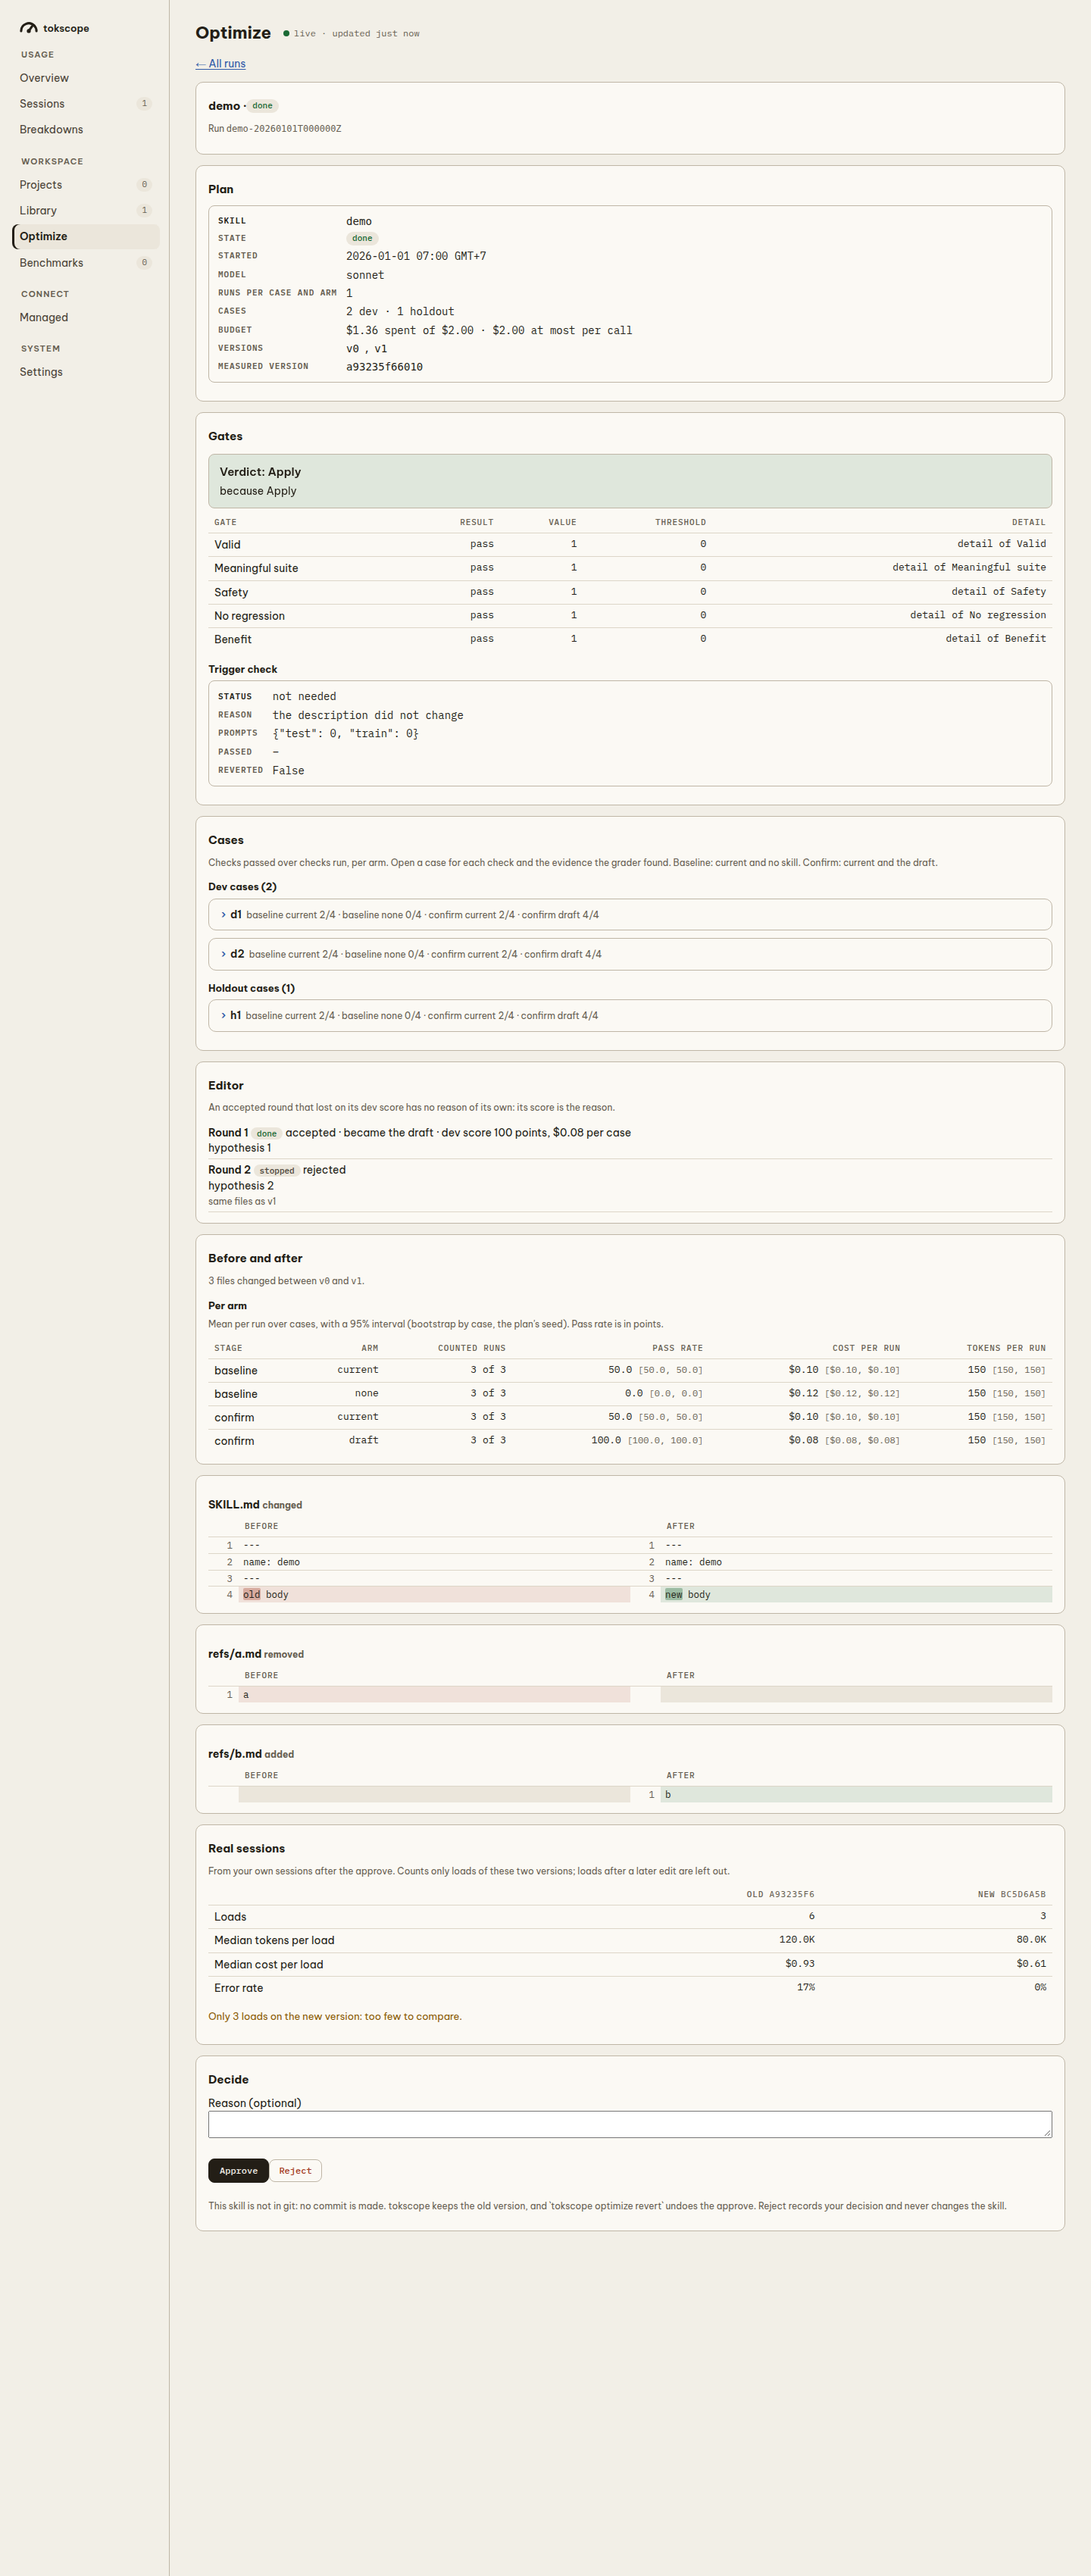
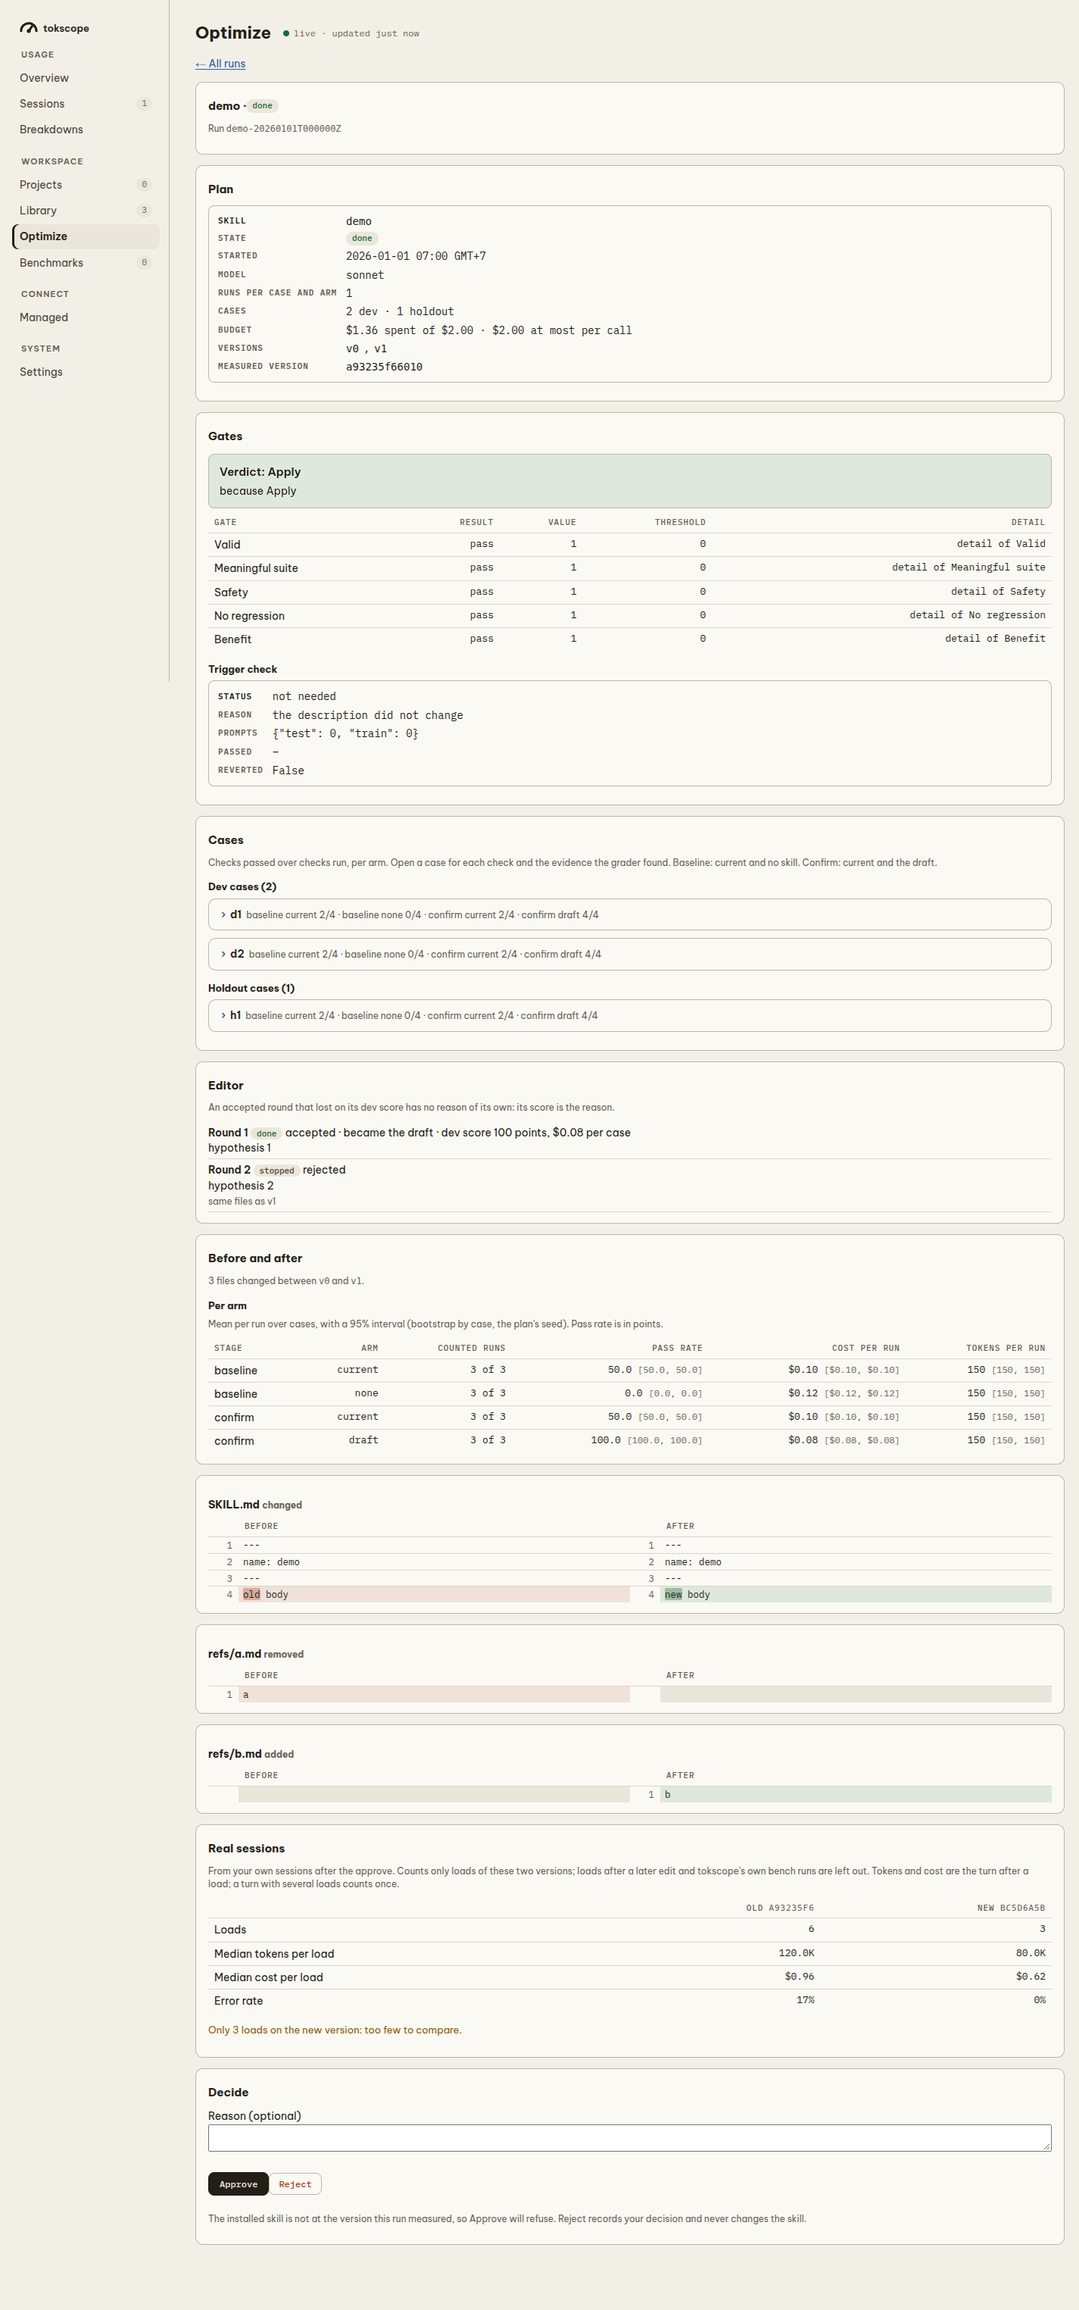
Post-ship: leave bench sessions out, count each turn once per side
Bench sessions (tokscope's own paid runs, project LIKE changes.BENCH_PROJECT,
the same rule versions() and library use) are left out of loads, error rate
and medians again, so synthetic loads cannot reach the 5-load threshold.

A turn with several loads of the skill was charged its whole sum once per
load. Rule picked: take each turn once per side (the simpler one); a turn's
tokens and cost stay the sum of its requests rows, so tokens stay integers.
Loads and error rate still count every load.

The card note now says bench runs are left out and a turn with several
loads counts once; UAT screenshots and table retaken with fixture data.

diff --git a/tests/test_optimize_page.py b/tests/test_optimize_page.py
@@ -889,7 +889,23 @@ class PostShipTest(Fixture):
         finally:
             conn.close()
 
-    def test_each_load_gets_the_full_turn_sum_even_with_several_loads_in_the_turn(self):
+    def test_one_turn_with_two_loads_counts_once_in_the_medians(self):
+        self.approve()
+        self.loads(self.new, 2, 15, tokens=1000, cost=1.0)  # turns 1 and 2: 1000 and 1001
+        self.loads(self.new, 1, 16, tokens=100, cost=0.1)  # turn 3: 100
+        conn = ingest.connect(self.db)
+        conn.execute("INSERT INTO skill_calls(session_id, ts, skill, source, prompt_idx, tool_use_id, failed) "
+                     "VALUES ('s1', '2026-03-16T01:00:00+00:00', 'demo', 'tool', 3, 'tdup', 0)")
+        conn.execute("INSERT INTO skill_load_versions VALUES ('s1', 'tdup', 'demo', ?, '2026-03-16T01:00:00+00:00')",
+                     (self.new,))
+        conn.commit()
+        conn.close()
+        got = self.numbers()["new"]
+        self.assertEqual(got["loads"], 4)
+        self.assertEqual(got["tokens_median"], 1000)  # turns 1000, 1001, 100; turn 3 not counted twice (550)
+        self.assertAlmostEqual(got["cost_median"], 1.0)
+
+    def test_a_turn_keeps_its_full_sum_when_another_skill_loads_in_it(self):
         self.approve()
         self.loads(self.new, 1, 15, tokens=1000, cost=1.0)
         conn = ingest.connect(self.db)
@@ -954,17 +970,25 @@ class PostShipTest(Fixture):
         got = self.numbers()
         self.assertEqual((got["old"]["loads"], got["new"]["loads"]), (5, 5))
 
-    def test_bench_sessions_count_and_loads_without_requests_stay_out_of_the_medians(self):
+    def test_loads_without_requests_stay_out_of_the_medians(self):
         self.approve()
-        self.loads(self.old, 2, 5, session="sb", failed=2)
         self.loads(self.old, 5, 6)
         conn = ingest.connect(self.db)
         conn.execute("DELETE FROM requests WHERE session_id = 's1' AND prompt_idx = 3")
         conn.commit()
         conn.close()
         got = self.numbers()["old"]
-        self.assertEqual((got["loads"], got["errors"], got["few"]), (7, 2, False))
-        self.assertIsNotNone(got["tokens_median"])
+        self.assertEqual((got["loads"], got["errors"], got["few"]), (5, 0, False))
+        self.assertEqual(got["tokens_median"], 102)  # 100, 101, 103, 104
+
+    def test_bench_session_loads_are_left_out_of_loads_errors_and_medians(self):
+        self.approve()
+        self.loads(self.old, 3, 5, session="sb", failed=2, tokens=9000, cost=9.0)
+        self.loads(self.old, 3, 6, tokens=100, cost=0.1)
+        got = self.numbers()["old"]
+        self.assertEqual((got["loads"], got["errors"], got["error_rate"], got["few"]), (3, 0, 0, True))
+        self.assertEqual(got["tokens_median"], 101)
+        self.assertAlmostEqual(got["cost_median"], 0.11)
 
     def test_an_unapproved_run_has_no_section_and_keeps_decide(self):
         self.approve()

diff --git a/tokscope/features/postship.py b/tokscope/features/postship.py
@@ -2,6 +2,7 @@
 import statistics
 
 from ..core import skills
+from .changes import BENCH_PROJECT
 
 MIN_LOADS = 5  # a side with fewer loads is too few to compare
 
@@ -31,9 +32,10 @@ def _turns(conn, keys):
 
 
 def _side(loads, failed, turns):
-    """loads, failed: lists of (session_id, prompt_idx) of the ok and the failed loads of one version."""
+    """loads, failed: lists of (session_id, prompt_idx) of the ok and the failed loads of one version. Each turn counts
+    once in the medians, however many loads it holds, so a turn with several loads is not counted several times."""
     every = loads + failed
-    measured = [turns[k] for k in every if k in turns]
+    measured = [turns[k] for k in set(every) if k in turns]
     n = len(every)
     return {"loads": n, "tokens_median": statistics.median(t for t, _ in measured) if measured else None,
             "cost_median": statistics.median(c for _, c in measured) if measured else None,
@@ -43,12 +45,14 @@ def _side(loads, failed, turns):
 def post_ship(conn, skill, old, new, at):
     """{"old": side, "new": side}: loads, median tokens and cost per load, errors and error rate from real sessions. A
     load counts by its version: the old version before `at`, the new one from `at` on; any other version (a later hand
-    edit) is left out. Tokens and cost are the full sum of the turn's requests after each load, ok or failed. A side is `few` under MIN_LOADS loads."""
+    edit) and any load in a bench session (tokscope's own paid runs) is left out. Tokens and cost are the sum of the
+    requests of the turn after a load, ok or failed, each turn taken once per side. A side is `few` under MIN_LOADS loads."""
     boundary = skills._dt(at)
+    bench = {r[0] for r in conn.execute("SELECT session_id FROM sessions WHERE project LIKE ?", (BENCH_PROJECT,))}
     pick = {"old": ([], []), "new": ([], [])}
     for failed in (False, True):
         for sid, i, sk, ts, version, _ in skills.load_versions(conn, failed=failed):
-            if sk != skill or not ts or version is None:
+            if sk != skill or not ts or version is None or sid in bench:
                 continue
             if version == old and skills._dt(ts) < boundary:
                 pick["old"][failed].append((sid, i))

diff --git a/tokscope/web/dashboard/pages/optimize.py b/tokscope/web/dashboard/pages/optimize.py
@@ -418,7 +418,8 @@ def _post_ship_section(conn, d):
     notes = "".join(f'<p class="warn" role="note">Only {side["loads"]} load{"s" * (side["loads"] != 1)} on the {name} version: '
                     "too few to compare.</p>" for name, side in (("old", o), ("new", n)) if side["few"])
     return ('<section class="card" id="postship"><h2 class="sec">Real sessions</h2><p class="note">From your own sessions after the approve. '
-            "Counts only loads of these two versions; loads after a later edit are left out.</p>"
+            "Counts only loads of these two versions; loads after a later edit and tokscope's own bench runs are left out. "
+            "Tokens and cost are the turn after a load; a turn with several loads counts once.</p>"
             f'<div class="scroll"><table><thead><tr><th></th><th>Old <code>{_e(str(old)[:8])}</code></th>'
             f'<th>New <code>{_e(str(new)[:8])}</code></th></tr></thead><tbody>{rows}</tbody></table></div>{notes}</section>')
 

diff --git a/STATUS.md b/STATUS.md
@@ -18,7 +18,7 @@ Merge #195, implement #193 on `feat/skill-optimize-v2-b`, then open the final PR
 - macOS app (#144-#148) cannot be verified without a Mac.
 
 ## Recent
-- 2026-11-05: #195: `features/postship.py` and a Real sessions card on an approved run page (old and new version: loads, median tokens and cost per load, error rate; note under 5 loads); UAT in `docs/uat/195-*`.
+- 2026-11-05: #195: `features/postship.py` and a Real sessions card on an approved run page (old and new version: loads, median tokens and cost per load, error rate; note under 5 loads); UAT in `docs/uat/195-*`. PR #218 review fixes: bench sessions left out of loads, errors and medians again; a turn with several loads counts once per side; card note and UAT screenshots updated.
 - 2026-11-05: Dashboard redesign (direction B) in steps; #209, #211-#215 merged. Step 8: Classic skin retired (Design button, Settings row, `s` key, classic.py removed; DECISIONS.md updated). The static report still renders without errors. Owner asked for auto merge: each PR is merged after green CI and review. Follow-up: light theme checked on all 8 pages (no fixes needed); unused `_cache_finding` removed, its 7-day test now covers the Needs a look item. #192 merged into `feat/skill-optimize-v2-b` (PR #210): Optimize dashboard page (`/optimize`: runs, gates, cases with evidence, editor rounds, before/after, per-arm CI), Approve and Reject routes over `skillopt/apply.py`, start-from-Library with a no-spend estimate then the CLI worker, Verified / Edited after run / Not verified in Library; PR #210 review fixes: pid-reuse check uses a 10 s clock slack and, without /proc, ps etime then a 24 h lock-age bound; UAT found and fixed a page-script syntax error and a hidden Before and after card; AC5 screenshots in `docs/uat/210-*`; PRODUCT.md and README.md describe `/optimize`. Merged `main` (the redesign) into `feat/skill-optimize-v2-b`: Optimize sits in the sidebar's Workspace group, screenshots in `docs/uat/merge-main-*`.
 - 2026-11-04: #190 merged into the feat branch (PR #206): `tokscope optimize approve|reject|revert` (`skillopt/apply.py`) installs the measured draft per file, commits only the skill's files in git, keeps a snapshot, records `opt_applied`, a `changes` row and `decision.json`, and rolls back or finishes an interrupted apply from `apply.json`.
 - 2026-11-04: #194 merged into the feat branch (PR #207): description changes are gated by a trigger eval with a frozen trigger set; a budget stop saves a partial state that resumes.

diff --git a/docs/uat/195-table.md b/docs/uat/195-table.md
@@ -1,10 +1,12 @@
 # UAT #195: real sessions on an approved run
 
-Before = parent commit 679d46d, after = this branch. Screenshots: `195-before-1440.png`, `195-after-1440.png`, `195-before-375.png`, `195-after-375.png`. Seeded run: old 6 loads (1 failed), new 3 loads, 4 loads of a hand-edited version.
+Before = parent commit 679d46d, after = this branch. Screenshots: `195-before-1440.png`, `195-after-1440.png`, `195-before-375.png`, `195-after-375.png`. Seeded run: old 6 loads (1 failed), new 3 loads, 4 loads of a hand-edited version, and 2 failed loads of the new version in a bench session (`…-tokscope-bench-…`). Medians cover failed loads too; each turn counts once.
 
 | Criterion | Result | Seen |
 |---|---|---|
-| AC1 old and new side by side: loads, median tokens, median cost, error rate | pass | 6 / 3 loads, 120.0K / 80.0K, $0.93 / $0.61, 17% / 0% |
-| AC2 "too few to compare" under 5 loads | pass | note for the new side (3 loads) only |
+| AC1 old and new side by side: loads, median tokens, median cost, error rate | pass | 6 / 3 loads, 120.0K / 80.0K, $0.96 / $0.62, 17% / 0% |
+| AC2 "too few to compare" under 5 loads | pass | note for the new side (3 loads) only; the 2 bench loads do not lift it to 5 |
 | AC3 other versions and loads outside the boundary not counted | pass | 4 hand-edited loads absent from both sides |
+| Bench sessions left out of loads, errors and medians | pass | new side 3 loads, 0%, 80.0K (bench turns were 900K, both failed) |
+| Card note matches the rule | pass | names the bench exclusion and "a turn with several loads counts once" |
 | No layout break at 375 px | pass | card fits, table readable |
